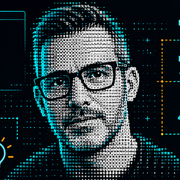
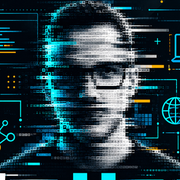
Add files via upload

diff --git a/index.html b/index.html
@@ -55,7 +55,7 @@
       <p class="hero__tagline">Rövid. Gyakorlatias. Közérthető.</p>
     </div>
     <div class="hero__art">
-      <img class="hero__portrait" src="assets/images/pedro-portrait.webp" width="960" height="570" alt="Pedro pontozott stílusú portréja szemüvegben, körülötte pajzs, lakat, laptop és felhő ikonok" fetchpriority="high">
+      <img class="hero__portrait" src="assets/images/pedro-portrait.webp" width="960" height="570" alt="Pedro pixeles, digitális stílusú portréja, körülötte pajzs, lakat, laptop és felhő ikonok" fetchpriority="high">
       <div class="hero__badge hero__badge--wave" aria-hidden="true"><svg class="icon" aria-hidden="true" focusable="false"><use href="#i-mic"></use></svg><div><strong>Podcast</strong><span class="wave"><i></i><i></i><i></i><i></i><i></i><i></i><i></i></span></div></div>
       <div class="hero__badge hero__badge--shield" aria-hidden="true"><svg class="icon" aria-hidden="true" focusable="false"><use href="#i-shield-check"></use></svg><div><strong>SecHack</strong>Digitális biztonság</div></div>
     </div>
@@ -103,7 +103,7 @@
 
 <section class="section section--alt" aria-labelledby="about-title">
   <div class="container about">
-    <div class="about__media"><img src="assets/images/pedro-avatar.webp" width="320" height="320" loading="lazy" alt="Pedro pontozott stílusú portréja szemüvegben"></div>
+    <div class="about__media"><img src="assets/images/pedro-avatar.webp" width="320" height="320" loading="lazy" alt="Pedro pixeles, digitális stílusú portréja"></div>
     <div>
       <p class="eyebrow">A házigazda</p>
       <h2 id="about-title">Ismerd meg Pedrót</h2>

diff --git a/about.html b/about.html
@@ -52,7 +52,7 @@
 
 <section class="section">
   <div class="container about">
-    <div class="about__media"><img src="assets/images/pedro-avatar.webp" width="320" height="320" alt="Pedro pontozott stílusú portréja szemüvegben"></div>
+    <div class="about__media"><img src="assets/images/pedro-avatar.webp" width="320" height="320" alt="Pedro pixeles, digitális stílusú portréja"></div>
     <div class="prose">
       <h2>Mi a SecHack?</h2>
       <p>A SecHack egy rövid, IT-biztonsági lifehack podcast, amelyből megtudhatod, hogyan használhatod biztonságosabban a digitális eszközeidet – anélkül, hogy sokat kellene költened.</p>
